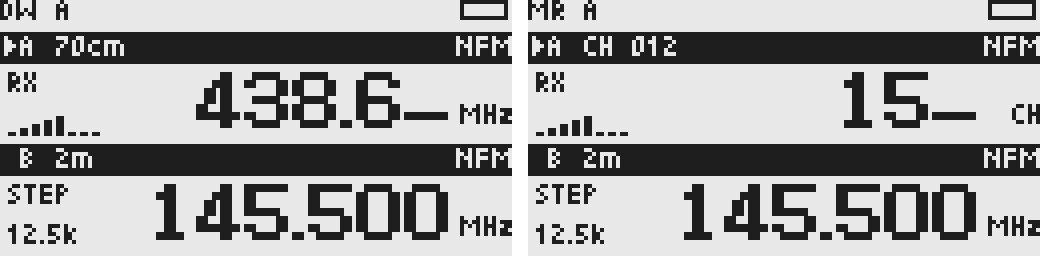
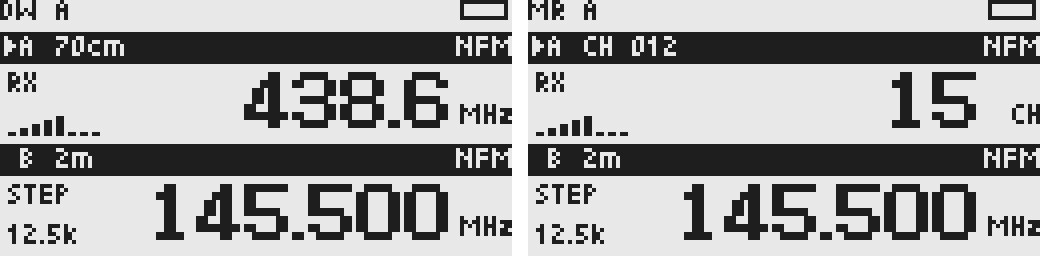
Show number drafts without the _ cursor
Frequency, channel, TX offset and settings drafts show just the digits.

Changed region(s): [[0.1846, 0.2812, 0.4308, 0.5], [0.8, 0.2812, 0.9538, 0.5]]

diff --git a/tools/ui-preview.c b/tools/ui-preview.c
@@ -50,10 +50,10 @@ int main(int argc, char **argv) {
   UI_RadioCardRender(8+UI_RADIO_CARD_HEIGHT,&second);snapshot("name.pbm");
   snapshot("dual.pbm");
   // A frequency draft owns the body; its end stays visible above the unit.
-  second.edit_text="1340.000001_";
+  second.edit_text="1340.000001";
   UI_RadioCardRender(8+UI_RADIO_CARD_HEIGHT,&second);snapshot("tuned.pbm");
   // An MR channel number draft uses the same body with a CH unit.
-  second.band_name="CH 012";second.edit_text="15_";second.edit_unit="CH";
+  second.band_name="CH 012";second.edit_text="15";second.edit_unit="CH";
   UI_RadioCardRender(8+UI_RADIO_CARD_HEIGHT,&second);snapshot("channel.pbm");
   // First-release A/B: only the selected row owns RX and valid signal.
   base();FillRect(100,0,10,5,C_CLEAR);
@@ -132,13 +132,13 @@ int main(int argc, char **argv) {
   UI_RadioCardRender(8,&v);UI_RadioCardRender(36,&second);snapshot("manual-tx.pbm");
   // Drafts leave the original reception running until MENU accepts them.
   v=(UI_RadioCardView){.id='A',.selected=true,.frequency_hz=438500000,
-    .step_hz=12500,.mode=RX_NFM,.band_name="70cm",.edit_text="438.6_",
+    .step_hz=12500,.mode=RX_NFM,.band_name="70cm",.edit_text="438.6",
     .activity=UI_RADIO_CARD_RECEIVING,.signal_valid=true,.signal_level=8};
   second=(UI_RadioCardView){.id='B',.frequency_hz=145500000,.step_hz=12500,
     .mode=RX_NFM,.band_name="2m"};
   manualBase("DW A",false);
   UI_RadioCardRender(8,&v);UI_RadioCardRender(36,&second);snapshot("manual-input.pbm");
-  v.band_name="CH 012";v.name="Local";v.edit_text="15_";v.edit_unit="CH";
+  v.band_name="CH 012";v.name="Local";v.edit_text="15";v.edit_unit="CH";
   manualBase("MR A",false);
   UI_RadioCardRender(8,&v);UI_RadioCardRender(36,&second);snapshot("manual-channel.pbm");
   // Spectrum: the slot card shows the cursor; noise, two carriers, peaks.

diff --git a/src/ui/radio-card.c b/src/ui/radio-card.c
@@ -130,7 +130,7 @@ void UI_RadioCardRender(uint8_t y, const UI_RadioCardView *view) {
     return;
   }
   // Extra decimals right-align over the unit; a long draft keeps its end
-  // (the cursor) in view.
+  // (the latest digit) in view.
   if (tail <= LCD_WIDTH-TAIL_X) UI_SmallTextWindow(LCD_WIDTH-tail, y+13, tail, rest, 0);
   else UI_SmallTextWindow(TAIL_X, y+13, LCD_WIDTH-TAIL_X, rest, tail-(LCD_WIDTH-TAIL_X));
   PrintSmallEx(LCD_WIDTH, y+22, POS_R, C_FILL, unit);

diff --git a/tests/radio-card-regression.c b/tests/radio-card-regression.c
@@ -62,7 +62,7 @@ int main(void) {
   assert(leftmost(17,32) >= 30 && ink(115,128,16,23)); // 1339.99 + 998
   assert(!ink(0,128,36,64)); // A card never draws outside its 28 rows.
   // Drafts keep their end (the cursor) visible in the tail column.
-  view.edit_text="1340.000001_";render(8,&view);
+  view.edit_text="1340.000001";render(8,&view);
   assert(leftmost(17,32) >= 30 && ink(124,128,16,23));
   view.edit_text=NULL;
 

diff --git a/src/ui/number-input.c b/src/ui/number-input.c
@@ -93,5 +93,4 @@ NumberInputResult NUMBER_Key(NumberInput *input, KEY_Code_t key,
 void NUMBER_Text(const NumberInput *input, char out[18]) {
   Text t = TEXT_Begin(out, 18);
   TEXT_Add(&t, input->text);
-  TEXT_Char(&t, '_');
 }

diff --git a/docs/user-manual.md b/docs/user-manual.md
@@ -114,7 +114,7 @@
 
 ![主屏幕输入：左为 VFO 频率草稿，右为 MR 频道号草稿](images/manual-input.png)
 
-左图正在输入 **438.6 MHz**，下划线是光标；按 MENU 才调谐。右图在 MR 输入 **频道 15**，单位是 CH，黑条仍显示正在接收的 CH 012；按 MENU 成功加载后才换频道，空号不改变原接收。另一张 Slot 卡片保留显示。输入期间 RX 图标可以继续出现，代表原方案仍在接收，不代表草稿已应用。
+左图正在输入 **438.6 MHz**，按 MENU 才调谐。右图在 MR 输入 **频道 15**，单位是 CH，黑条仍显示正在接收的 CH 012；按 MENU 成功加载后才换频道，空号不改变原接收。另一张 Slot 卡片保留显示。输入期间 RX 图标可以继续出现，代表原方案仍在接收，不代表草稿已应用。
 
 `0*401` 是 401 kHz，`95*925` 是 95.925 MHz，`438*500` 是 438.500 MHz。非法值保留草稿并显示 Invalid value。不能精确表示目标时，Apply 页展示实际频率，MENU 应用、EXIT 取消。无接收路径或调谐失败时提示原因，不保存失败目标。
 
